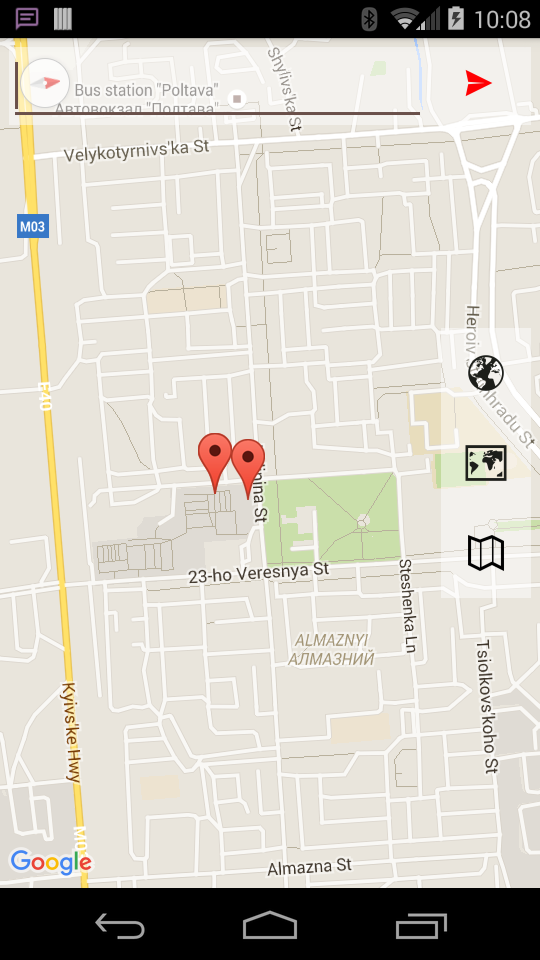
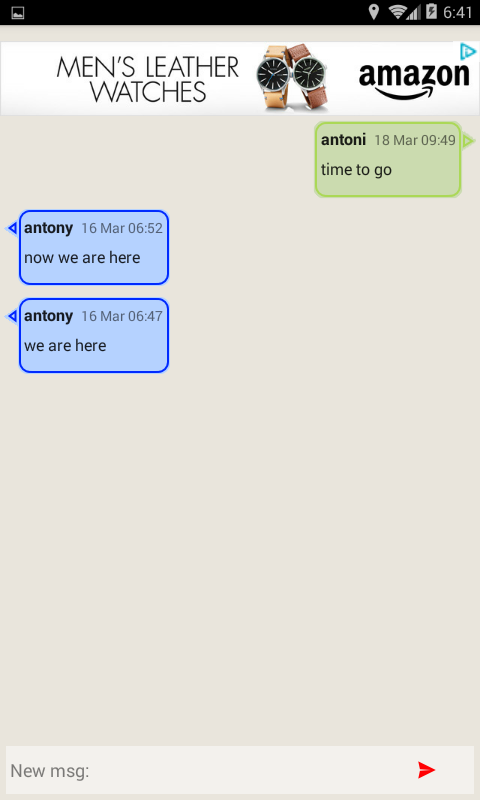
add amazon ads

diff --git a/app/src/main/java/org/belichenko/a/onehundredmeterchat/LoginActivity.java b/app/src/main/java/org/belichenko/a/onehundredmeterchat/LoginActivity.java
@@ -8,6 +8,7 @@ import android.os.Bundle;
 import android.os.Handler;
 import android.support.v7.app.ActionBar;
 import android.support.v7.app.AppCompatActivity;
+import android.util.Log;
 import android.view.MotionEvent;
 import android.view.View;
 import android.widget.ArrayAdapter;
@@ -15,6 +16,13 @@ import android.widget.AutoCompleteTextView;
 import android.widget.TextView;
 import android.widget.Toast;
 
+import com.amazon.device.ads.Ad;
+import com.amazon.device.ads.AdError;
+import com.amazon.device.ads.AdLayout;
+import com.amazon.device.ads.AdListener;
+import com.amazon.device.ads.AdProperties;
+import com.amazon.device.ads.AdRegistration;
+import com.amazon.device.ads.AdTargetingOptions;
 import com.google.gson.Gson;
 
 import java.util.ArrayList;
@@ -43,6 +51,7 @@ public class LoginActivity extends AppCompatActivity implements Constant {
      * and a change of the status and navigation bar.
      */
     private static final int UI_ANIMATION_DELAY = 300;
+    private static final String TAG = "AmazonAd";
     private final Handler mHideHandler = new Handler();
     /**
      * Touch listener to use for in-layout UI controls to delay hiding the
@@ -88,8 +97,8 @@ public class LoginActivity extends AppCompatActivity implements Constant {
             mControlsView.setVisibility(View.VISIBLE);
         }
     };
-
-    TextView mStartBt;
+    private AdLayout mAdView;
+    private TextView mStartBt;
     private boolean mVisible;
     private final Runnable mHideRunnable = new Runnable() {
         @Override
@@ -105,11 +114,46 @@ public class LoginActivity extends AppCompatActivity implements Constant {
     protected void onCreate(Bundle savedInstanceState) {
         super.onCreate(savedInstanceState);
         setContentView(R.layout.activity_login);
+        AdRegistration.enableLogging(false);
+        AdRegistration.enableTesting(true);
+        AdRegistration.setAppKey("ba43cb42ea6c4650a5be17803d99d5ce");
+
         mVisible = true;
         mContentView = findViewById(R.id.cover_layout);
         mControlsView = findViewById(R.id.fullscreen_content_controls);
         mStartBt = (TextView) findViewById(R.id.start_bt);
         usersName = (AutoCompleteTextView) findViewById(R.id.editName);
+
+        mAdView = (AdLayout) findViewById(R.id.adview);
+        AdTargetingOptions adOptions = new AdTargetingOptions();
+        mAdView.loadAd();
+        mAdView.setListener(new AdListener() {
+            @Override
+            public void onAdLoaded(Ad ad, AdProperties adProperties) {
+                Log.d(TAG, "onAdLoaded() called with: " + "ad = [" + ad + "], adProperties = [" + adProperties + "]");
+            }
+
+            @Override
+            public void onAdFailedToLoad(Ad ad, AdError adError) {
+                Log.d(TAG, "onAdFailedToLoad() called with: "
+                        + "code = [" + adError.getCode() + "], msg = [" + adError.getMessage() + "]");
+            }
+
+            @Override
+            public void onAdExpanded(Ad ad) {
+                Log.d(TAG, "onAdExpanded() called with: " + "ad = [" + ad + "]");
+            }
+
+            @Override
+            public void onAdCollapsed(Ad ad) {
+                Log.d(TAG, "onAdCollapsed() called with: " + "ad = [" + ad + "]");
+            }
+
+            @Override
+            public void onAdDismissed(Ad ad) {
+                Log.d(TAG, "onAdDismissed() called with: " + "ad = [" + ad + "]");
+            }
+        });
 
         getListOfUsers();
         adapter = new ArrayAdapter(this, android.R.layout.simple_list_item_1, usersList);
@@ -152,6 +196,12 @@ public class LoginActivity extends AppCompatActivity implements Constant {
         super.onResume();
         getListOfUsers();
         adapter.notifyDataSetChanged();
+    }
+
+    @Override
+    protected void onDestroy() {
+        super.onDestroy();
+        mAdView.destroy();
     }
 
     private void storeNewName(String name) {

diff --git a/app/src/main/java/org/belichenko/a/onehundredmeterchat/ListFragment.java b/app/src/main/java/org/belichenko/a/onehundredmeterchat/ListFragment.java
@@ -11,6 +11,14 @@ import android.view.ViewGroup;
 import android.widget.EditText;
 import android.widget.ImageView;
 
+import com.amazon.device.ads.Ad;
+import com.amazon.device.ads.AdError;
+import com.amazon.device.ads.AdLayout;
+import com.amazon.device.ads.AdListener;
+import com.amazon.device.ads.AdProperties;
+import com.amazon.device.ads.AdRegistration;
+import com.amazon.device.ads.AdTargetingOptions;
+
 import java.util.LinkedList;
 
 /**
@@ -22,13 +30,14 @@ import java.util.LinkedList;
 public class ListFragment extends Fragment implements Constant, View.OnClickListener {
 
     private static final String TAG = "List fragment";
-    protected static String name = "Chat";
-    private static ListFragment ourInstance = new ListFragment();
+    protected static final String name = "Chat";
+    private static final ListFragment ourInstance = new ListFragment();
     protected LinkedList<Message> messagesList;
     private OnListFragmentInteractionListener mListener;
     private RecyclerViewAdapter mAdapter;
     private ImageView imageList;
     private EditText textList;
+    private AdLayout mAdView;
 
     /**
      * Mandatory empty constructor for the fragment manager to instantiate the
@@ -62,6 +71,38 @@ public class ListFragment extends Fragment implements Constant, View.OnClickList
         RecyclerView recyclerView = (RecyclerView) view.findViewById(R.id.list);
         recyclerView.setAdapter(mAdapter);
 
+        AdRegistration.enableLogging(false);
+        AdRegistration.enableTesting(true);
+        AdRegistration.setAppKey("ba43cb42ea6c4650a5be17803d99d5ce");
+        mAdView = (AdLayout) view.findViewById(R.id.adListView);
+        AdTargetingOptions adOptions = new AdTargetingOptions();
+        mAdView.loadAd();
+        mAdView.setListener(new AdListener() {
+            @Override
+            public void onAdLoaded(Ad ad, AdProperties adProperties) {
+                Log.d(TAG, "onAdLoaded() called with: " + "ad = [" + ad + "], adProperties = [" + adProperties + "]");
+            }
+
+            @Override
+            public void onAdFailedToLoad(Ad ad, AdError adError) {
+                Log.d(TAG, "onAdFailedToLoad() called with: " + "ad = [" + ad + "], adError = [" + adError + "]");
+            }
+
+            @Override
+            public void onAdExpanded(Ad ad) {
+                Log.d(TAG, "onAdExpanded() called with: " + "ad = [" + ad + "]");
+            }
+
+            @Override
+            public void onAdCollapsed(Ad ad) {
+                Log.d(TAG, "onAdCollapsed() called with: " + "ad = [" + ad + "]");
+            }
+
+            @Override
+            public void onAdDismissed(Ad ad) {
+                Log.d(TAG, "onAdDismissed() called with: " + "ad = [" + ad + "]");
+            }
+        });
         return view;
     }
 
@@ -97,6 +138,12 @@ public class ListFragment extends Fragment implements Constant, View.OnClickList
     public void onResume() {
         super.onResume();
         updateMessages(((MainActivity) getActivity()).getMsgList());
+    }
+
+    @Override
+    public void onDestroyView() {
+        super.onDestroyView();
+        mAdView.destroy();
     }
 
     @Override

diff --git a/app/src/main/java/org/belichenko/a/onehundredmeterchat/App.java b/app/src/main/java/org/belichenko/a/onehundredmeterchat/App.java
@@ -3,8 +3,6 @@ package org.belichenko.a.onehundredmeterchat;
 import android.app.Application;
 import android.content.Context;
 
-import com.facebook.stetho.Stetho;
-
 /**
  * For getting context
  */
@@ -15,8 +13,7 @@ public class App extends Application {
     public void onCreate() {
         super.onCreate();
         App.context = getApplicationContext();
-        // TODO: 23.02.2016 comment when developing is over
-        Stetho.initializeWithDefaults(this);
+        //Stetho.initializeWithDefaults(this);
     }
 
     public static Context getAppContext() {

diff --git a/app/src/main/java/org/belichenko/a/onehundredmeterchat/MainActivity.java b/app/src/main/java/org/belichenko/a/onehundredmeterchat/MainActivity.java
@@ -243,8 +243,7 @@ public class MainActivity extends AppCompatActivity implements
         @Override
         public View onCreateView(LayoutInflater inflater, ViewGroup container,
                                  Bundle savedInstanceState) {
-            View rootView = inflater.inflate(R.layout.fragment_setting, container, false);
-            return rootView;
+            return inflater.inflate(R.layout.fragment_setting, container, false);
         }
     }
 

diff --git a/app/src/main/java/org/belichenko/a/onehundredmeterchat/DividerItemDecoration.java b/app/src/main/java/org/belichenko/a/onehundredmeterchat/DividerItemDecoration.java
@@ -12,7 +12,7 @@ public class DividerItemDecoration extends RecyclerView.ItemDecoration {
 
     private static final int[] ATTRS = new int[]{android.R.attr.listDivider};
 
-    private Drawable mDivider;
+    private final Drawable mDivider;
 
     /**
      * Default divider will be used
